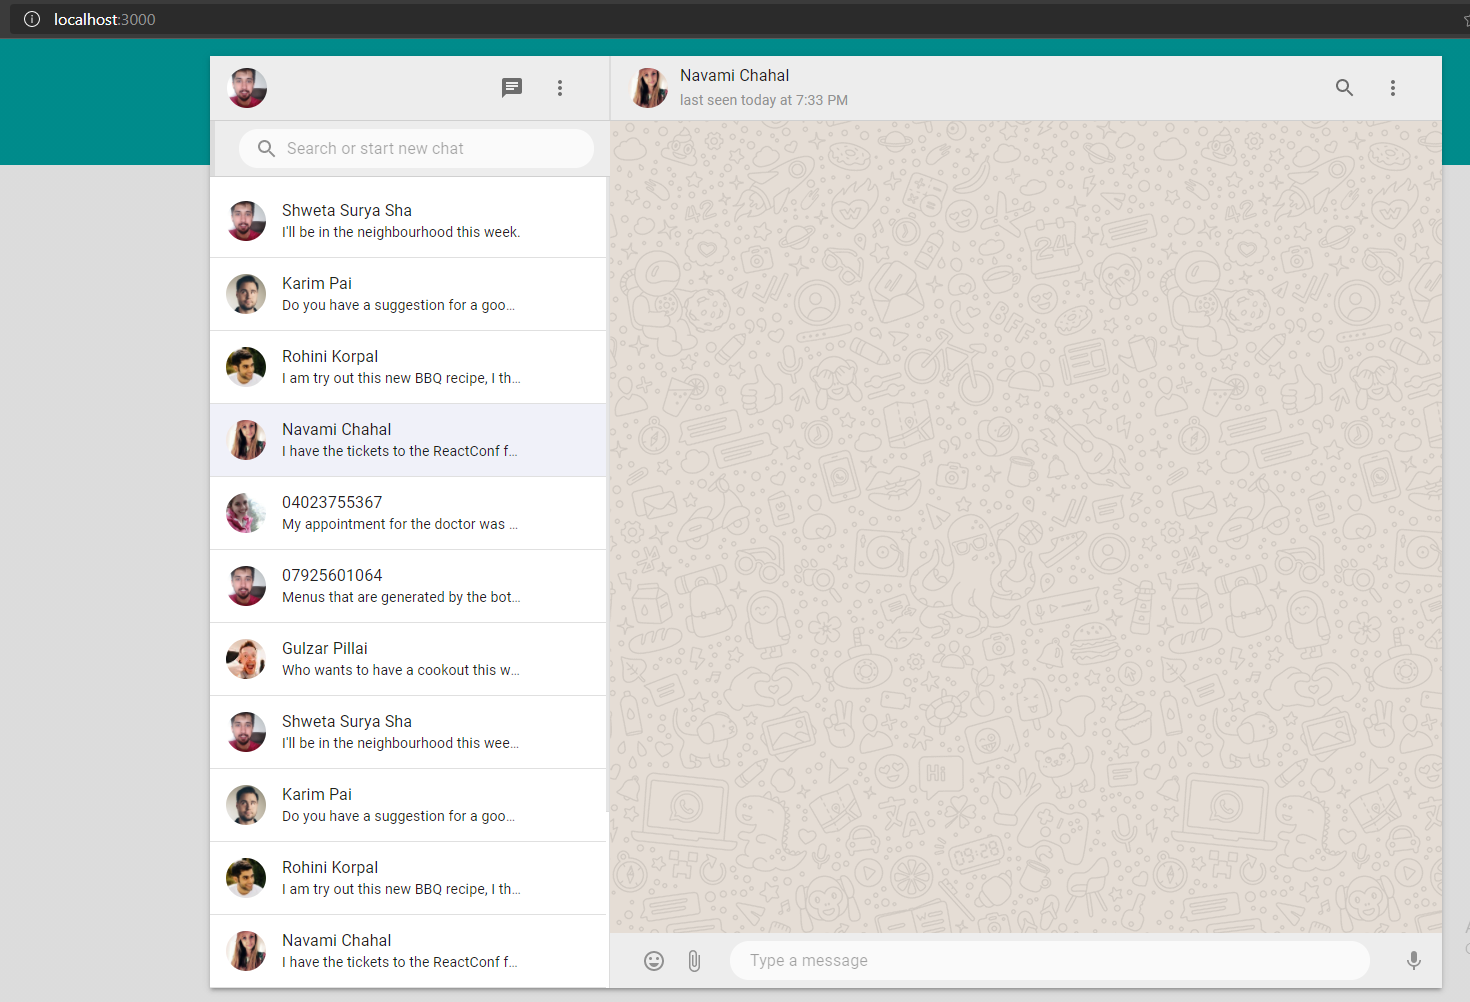
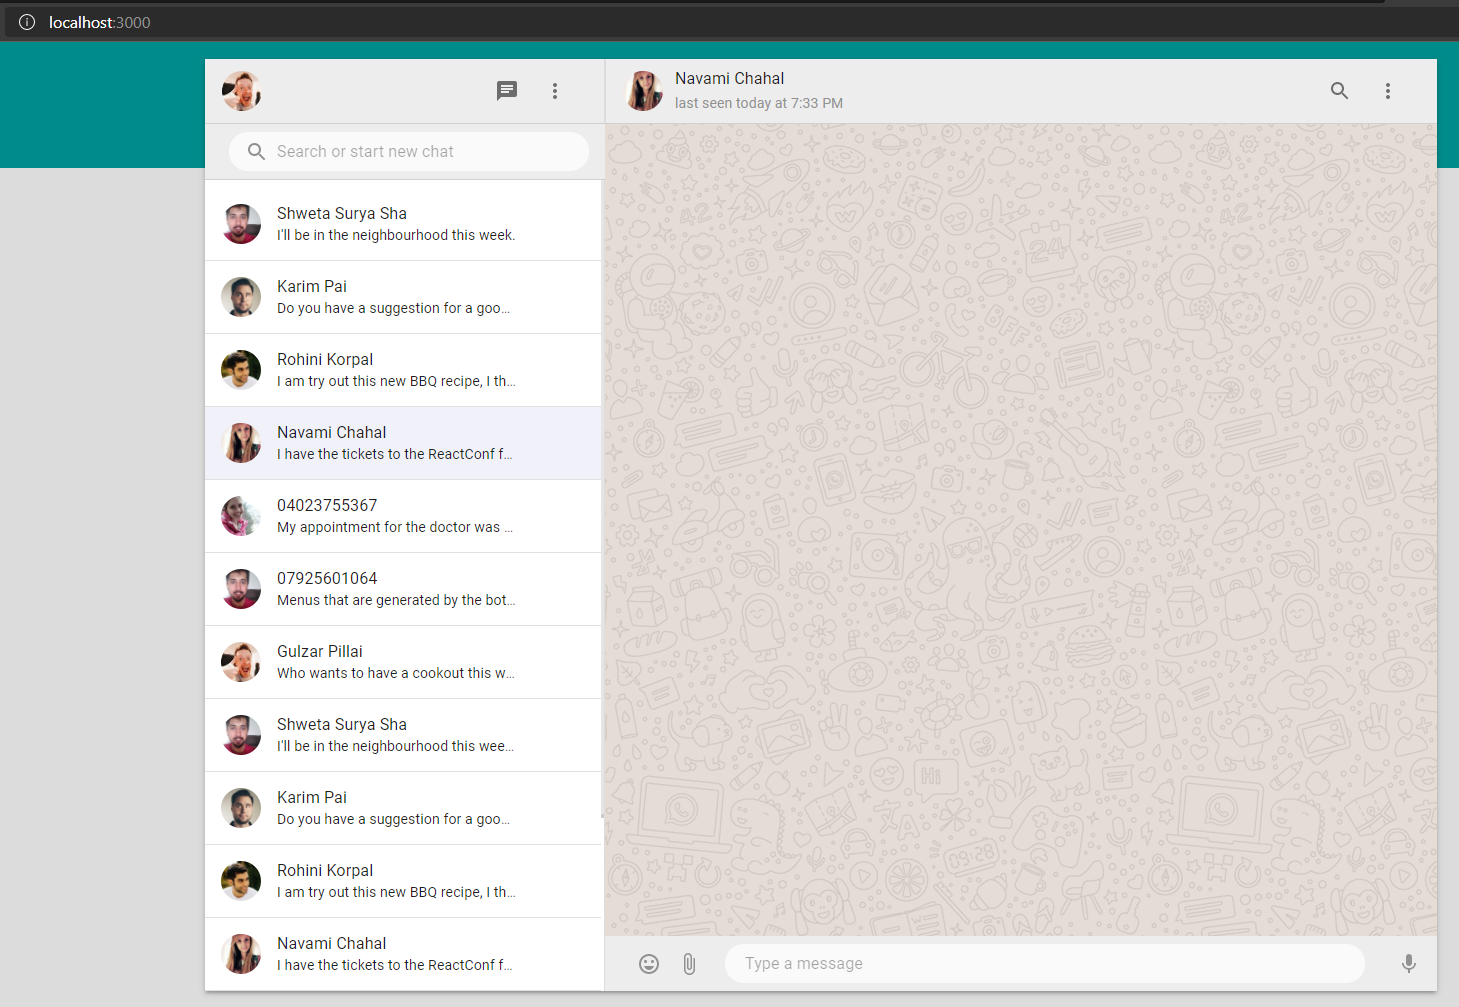
Sidebar search border change

diff --git a/src/SideBarSearch.js b/src/SideBarSearch.js
@@ -90,7 +90,7 @@ export default function SideBarSearch() {
     }
 
     return (
-        <Box sx={{ display: "flex", borderLeft: '1px solid gainsboro', borderRightWidth: 'thin' }}>
+        <Box sx={{ display: "flex", borderLeft: '0px solid gainsboro', borderRightWidth: 'thin' }}>
             <Search>
                 <SearchIconWrapper>
                     {isFocus ? <ArrowBackIcon className={styles.arrowStyle} /> : <SearchIcon className={styles.searchStyle} />}
